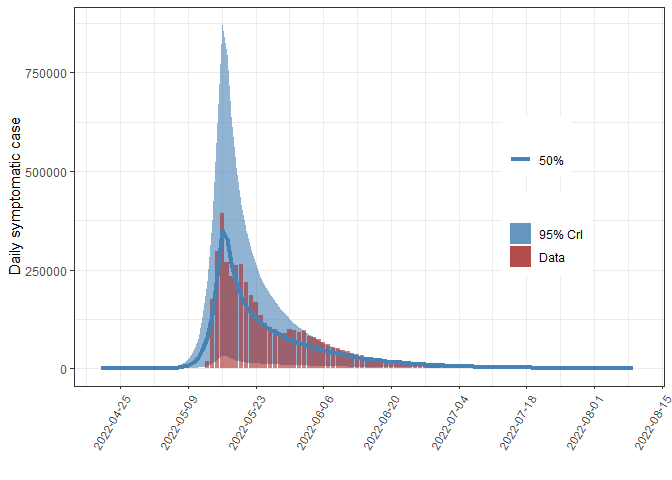
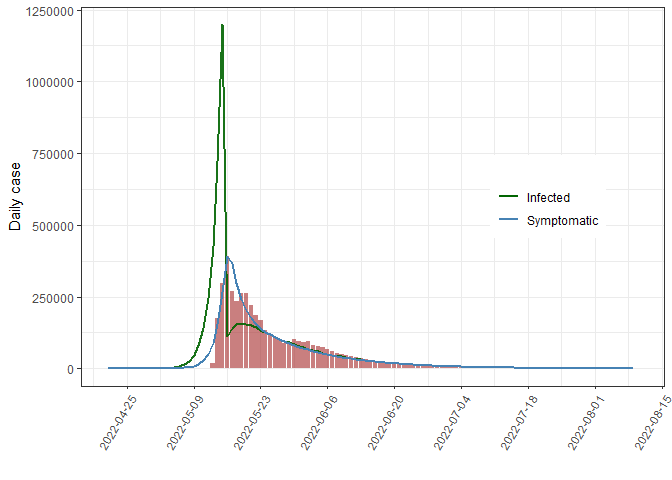
README, incidence edited

diff --git a/README.md b/README.md
@@ -757,10 +757,11 @@ cat(paste0(round(cases_kids * 0.044), ", ", round(cases_kids * 0.582)), "\n")
 
 ### 수리모형
 
+일별 유열자
+
 ``` r
 # cleaned dataset 
 d = readRDS("inst/extdata/covid_overall_20230122.rds")
-
 obs <- c(d$symptomatic)
 # PARAMETERS is a global variable that is used in update_params, incidence, etc.
 PARAMETERS <- initialize_params(tau=0.1, obs_length=length(obs))
@@ -774,7 +775,6 @@ mod1 = data.frame(date=rev(seq(from=tail(dat1$date,1)-1, by="-1 day",
                                length.out=nrow(y))), 
                   val = y[,1])
 
-library(ggplot2)
 sb <- scales::alpha(c("steelblue"), alpha = c(0.6, 0.55, 1.0)) # symptomatic
 br <- scales::alpha(c("brown"), alpha = c(0.6)) # data
 gr <- scales::alpha(c("darkgreen"), alpha = c(0.2, 0.55, 0.9)) # infection
@@ -793,7 +793,48 @@ p
 
 ![](README_files/figure-gfm/unnamed-chunk-21-1.png)<!-- -->
 
+일별 유열자 및 감염자
+
+``` r
+# cleaned dataset 
+d = readRDS("inst/extdata/covid_overall_20230122.rds")
+obs <- c(d$symptomatic)
+# PARAMETERS is a global variable that is used in update_params, incidence, etc.
+PARAMETERS <- initialize_params(tau=0.1, obs_length=length(obs))
+fit = readRDS("outputs/fit_20230527.rds")
+parm = fit$optim$bestmem
+set.seed(1)
+y <- incidence(pars=parm, state=c("cumul_infected", "cumul_symptomatic"))
+dat1 = data.frame(date=seq(from=d$date[1], by="1 day",
+                           length.out=length(obs)), obs=obs)
+mod1 = data.frame(date=rev(seq(from=tail(dat1$date,1)-1, by="-1 day",
+                               length.out=nrow(y))), 
+                  cumul_infected = y[,1],
+                  cumul_symptomatic = y[,2])
+
+sb <- scales::alpha(c("steelblue"), alpha = c(0.6, 0.55, 1.0)) # symptomatic
+br <- scales::alpha(c("brown"), alpha = c(0.6)) # data
+gr <- scales::alpha(c("darkgreen"), alpha = c(0.2, 0.55, 0.9)) # infection
+
+p <- ggplot(mod1, aes(x=date)) +
+  geom_col(data=dat1, aes(x=date, y=obs), fill=br[1], inherit.aes=F) +
+  geom_line(aes(y=cumul_infected, color="Infected"), linewidth=1)+
+  geom_line(aes(y=cumul_symptomatic, color="Symptomatic"), linewidth=1)+
+  scale_color_manual("", values=c("Infected"=gr[3], "Symptomatic"=sb[3]))+
+  scale_x_date(date_breaks="2 weeks", date_labels="%Y-%m-%d",
+               limits=c(min(mod1$date), max(dat1$date)))+
+  theme_bw()+
+  labs(x="", y="Daily case") +
+  theme(axis.text.x=element_text(angle=60, hjust=1))+
+  theme(legend.position=c(0.8,0.5))
+p
+```
+
+![](README_files/figure-gfm/unnamed-chunk-22-1.png)<!-- -->
+
 ### 확률론적 모형
+
+유열자
 
 ``` r
 set.seed(42)
@@ -825,7 +866,9 @@ for (i in 2:nrun) {
 # min_case = 10000
 # ids <- colSums(m) > min_case
 # m <- m[,ids] # select only those at least one infection has been generated
-sim = as.data.frame(t(apply(m, 1, quantile, probs=c(0.025,0.5,0.975))))
+# sim = as.data.frame(t(apply(m, 1, quantile, probs=c(0.025,0.5,0.975))))
+probs = c(0.05,0.5,0.95)
+sim = as.data.frame(t(apply(m, 1, quantile, probs=probs)))
 # sim = as.data.frame(t(apply(m, 1, quantile, probs=c(0.25,0.5,0.75))))
 # colSums(sim)
 ## the first day represents the cumulative cases occurred before the first reporting 
@@ -834,17 +877,18 @@ dat1 = data.frame(date=seq(from=d$date[1], by="1 day",
 mod1 = data.frame(date=rev(seq(from=tail(dat1$date,1)-1, by="-1 day",
                                length.out=nrow(m))))
 mod1 <- cbind(mod1, sim)
+names(mod1) <- c("date","lower","med","upper")
 # mx = max(c(dat1$obs, mod1$`97.5%`), na.rm=T)
-library(ggplot2)
+
 sb <- scales::alpha(c("steelblue"), alpha = c(0.6, 0.55, 1.0)) # symptomatic
 br <- scales::alpha(c("brown"), alpha = c(0.6)) # data
 gr <- scales::alpha(c("darkgreen"), alpha = c(0.2, 0.55, 0.9)) # infection
 
 p <- ggplot(mod1, aes(x=date)) +
-  geom_ribbon(aes(ymax=`97.5%`,ymin=`2.5%`, fill="95% CrI"))+
+  geom_ribbon(aes(ymax=upper,ymin=lower, fill="95% CrI"))+
   geom_col(data=dat1, aes(x=date, y=obs, fill="Data"),
            inherit.aes = F) +
-  geom_line(aes(y=`50%`, color="50%"), linewidth=1.5) +
+  geom_line(aes(y=med, color="50%"), linewidth=1.5) +
   scale_fill_manual("", values=c("95% CrI"=sb[1], "Data"=br))+
   scale_color_manual("", values=c("50%"=sb[3]))+
   labs(x="", y="Daily symptomatic case") +
@@ -856,7 +900,81 @@ p <- ggplot(mod1, aes(x=date)) +
 p
 ```
 
-![](README_files/figure-gfm/unnamed-chunk-22-1.png)<!-- -->
+![](README_files/figure-gfm/unnamed-chunk-23-1.png)<!-- -->
+
+유열자 및 감염자
+
+``` r
+set.seed(42)
+d = readRDS("inst/extdata/covid_overall_20230122.rds")
+# case_before <- d$cumul_recovered[1] + d$cumul_deaths[1] - d$symptomatic[1] 
+obs <- d$symptomatic
+# PARAMETERS is a global variable used in other functions (eg, update_params, 
+# incidence,)
+PARAMETERS <- initialize_params(tau=0.1, obs_length=length(obs))
+# Day 1 and Day 2 are integers
+fit = readRDS("outputs/fit_20230527.rds")
+parm = fit$optim$bestmem
+
+# stochastic model
+PARAMETERS$model <- seapird_tauleap
+# PARAMETERS$symptomatic <- 2
+
+nrun = 1000
+set.seed(1)
+y <- incidence(pars=parm, state=c("cumul_infected", "cumul_symptomatic"))
+m2 <- m1 <- matrix(NA, nrow=nrow(y), ncol=nrun)
+m1[,1] = y[,1]
+m2[,1] = y[,2]
+for (i in 2:nrun) {
+  set.seed(i)
+  y <- incidence(pars=parm, state=c("cumul_infected", "cumul_symptomatic"))
+  m1[,i] = y[,1]
+  m2[,i] = y[,2]
+}
+# plot only those with at least two cases
+# min_case = 10000
+# ids <- colSums(m) > min_case
+# m <- m[,ids] # select only those at least one infection has been generated
+probs = c(0.05,0.5,0.95)
+sim1 = as.data.frame(t(apply(m1, 1, quantile, probs=probs)))
+sim2 = as.data.frame(t(apply(m2, 1, quantile, probs=probs)))
+# sim = as.data.frame(t(apply(m, 1, quantile, probs=c(0.25,0.5,0.75))))
+# colSums(sim)
+## the first day represents the cumulative cases occurred before the first reporting 
+dat = data.frame(date=seq(from=d$date[1], by="1 day",
+                           length.out=length(obs)), obs=obs)
+mod = data.frame(date=rev(seq(from=tail(dat$date,1)-1, by="-1 day",
+                               length.out=nrow(m))))
+mod <- cbind(mod, sim1, sim2)
+names(mod) <- c("date","lower","med","upper","lower_symp","med_symp","upper_symp")
+# mx = max(c(dat1$obs, mod1$`97.5%`), na.rm=T)
+
+sb <- scales::alpha(c("steelblue"), alpha = c(0.5, 0.55, 1.0)) # symptomatic
+br <- scales::alpha(c("brown"), alpha = c(0.5)) # data
+gr <- scales::alpha(c("darkgreen"), alpha = c(0.5, 0.55, 0.9)) # infection
+
+p <- ggplot(mod, aes(x=date)) +
+  geom_ribbon(aes(ymax=upper, ymin=lower, fill="Infected (95% CrI)"))+
+  geom_ribbon(aes(ymax=upper_symp, ymin=lower_symp, fill="Symptomatic (95% CrI)"))+
+  geom_col(data=dat, aes(x=date, y=obs, fill="Data"),
+           inherit.aes = F) +
+  geom_line(aes(y=med, color="Infected (50%)"), linewidth=1.5) +
+  geom_line(aes(y=med_symp, color="Symptomatic (50%)"), linewidth=1.5) +
+  scale_fill_manual("", values=c("Symptomatic (95% CrI)"=sb[1],
+                                 "Infected (95% CrI)"=gr[1],
+                                 "Data"=br))+
+  scale_color_manual("", values=c("Infected (50%)"=gr[3], "Symptomatic (50%)"=sb[3]))+
+  labs(x="", y="Daily symptomatic case") +
+  scale_x_date(date_breaks="2 weeks", date_labels="%Y-%m-%d",
+               limits=c(min(mod$date), max(dat$date)))+
+  theme_bw()+
+  theme(axis.text.x=element_text(angle=60, hjust=1))+
+  theme(legend.position=c(0.8,0.5))
+p
+```
+
+![](README_files/figure-gfm/unnamed-chunk-24-1.png)<!-- -->
 
 ### COVID-19관련 세계 및 북한 데이터를 시각화
 
@@ -1046,7 +1164,7 @@ ggplot(data = df_countries, aes(x = "", y = `2022_new_cases_per_million`)) +
        x = "전세계")
 ```
 
-![](README_files/figure-gfm/unnamed-chunk-25-1.png)<!-- -->
+![](README_files/figure-gfm/unnamed-chunk-27-1.png)<!-- -->
 
 대륙별
 
@@ -1060,7 +1178,7 @@ ggplot(data = df_countries, aes(x = continent, y = `2022_new_cases_per_million`)
        x = "")
 ```
 
-![](README_files/figure-gfm/unnamed-chunk-26-1.png)<!-- -->
+![](README_files/figure-gfm/unnamed-chunk-28-1.png)<!-- -->
 
 지리적으로 북한과 가깝고 체저가 유사한 나라를 골라서 북한과 비교
 
@@ -1088,7 +1206,7 @@ ggplot(data = df_countries, aes(x = "", y = `2022_new_cases_per_million`)) +
        x = "")
 ```
 
-![](README_files/figure-gfm/unnamed-chunk-27-1.png)<!-- -->
+![](README_files/figure-gfm/unnamed-chunk-29-1.png)<!-- -->
 
 북한 자료가 있는 5-7월 기간 동안 백만 명당 신규 사례에 대한 박스 플롯
 생성
@@ -1113,7 +1231,7 @@ ggplot(data = df_countries_NKperiod, aes(x = "", y = `2022_new_cases_per_million
        x = "")
 ```
 
-![](README_files/figure-gfm/unnamed-chunk-28-1.png)<!-- -->
+![](README_files/figure-gfm/unnamed-chunk-30-1.png)<!-- -->
 
 ``` r
 df_sorted <- df_countries_NKperiod[order(df_countries_NKperiod$`2022_new_cases_per_million`, decreasing=TRUE),]
